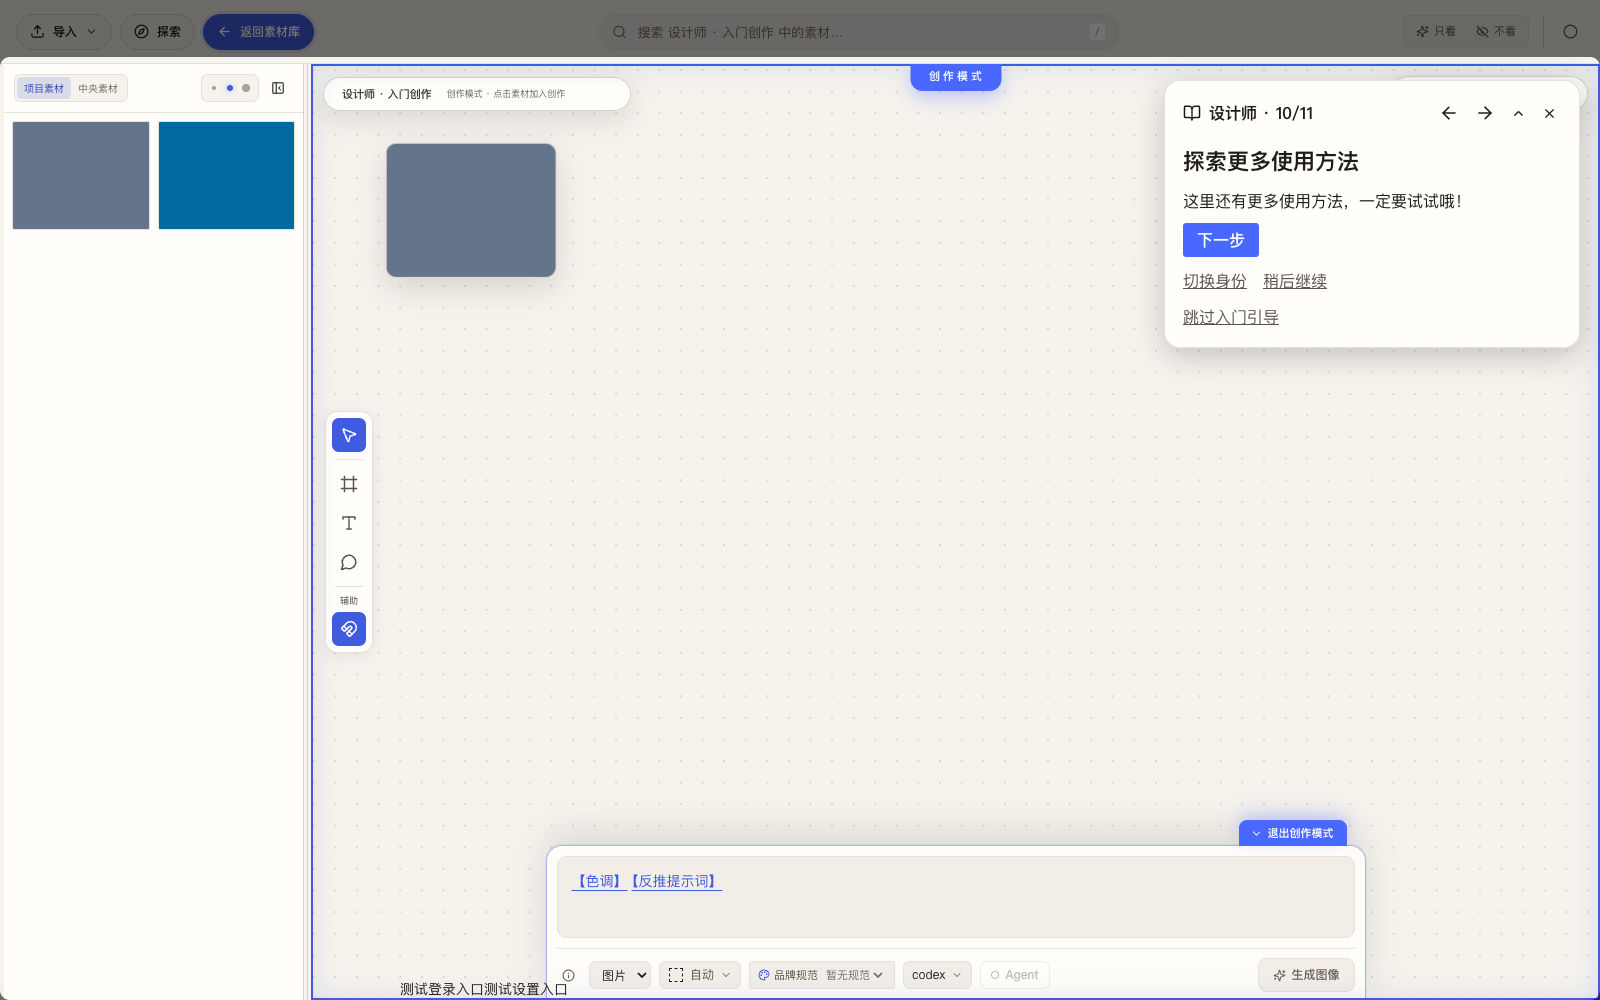
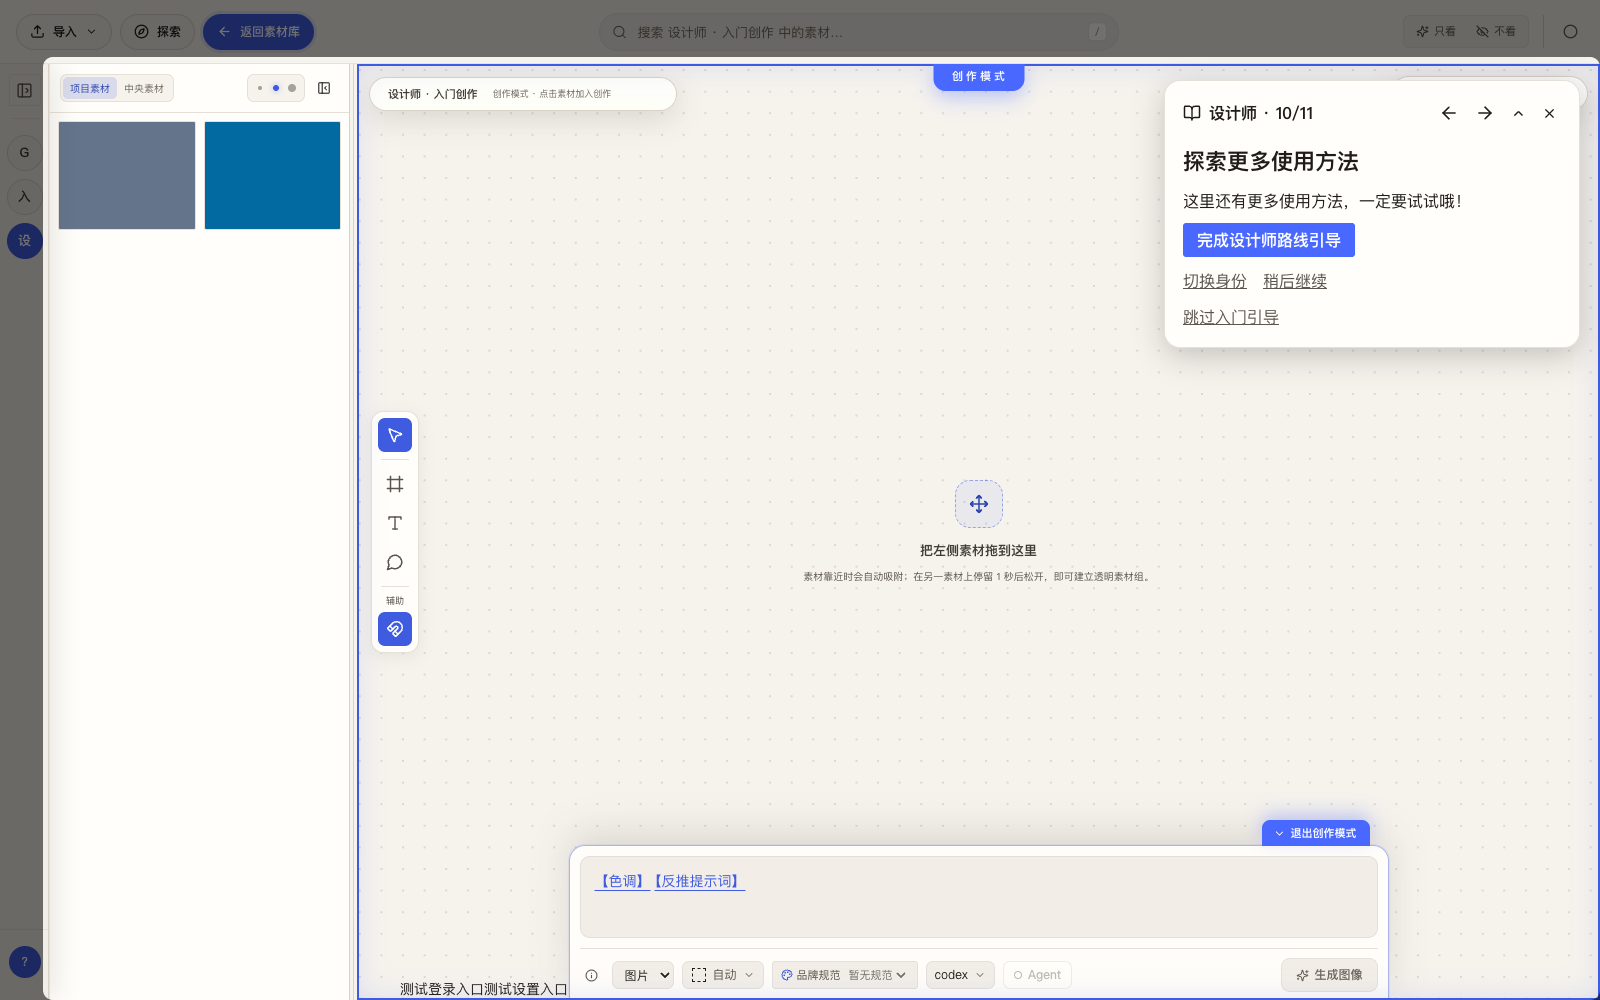
feat(mac): bump to 26.9.19 with onboarding refinements and record build
Merge dev 56699d3 (website HEAD fix, DESKTOP-UPDATES.md handoff,
designer onboarding copy + step 7.1) into mac; resolve doc conflicts
keeping dev's canonical updater records plus mac-unique archive entries.

Bump tauri.conf.json and Cargo.toml to 26.9.19 and build the signed
aarch64 update package per DESKTOP-UPDATES.md flow: app.tar.gz + sig
(sha256 cba3a3b3…), updater-installer DMG (d139e04d…), and
darwin-aarch64.json manifest with onboarding release notes. Verified
onboarding contracts 14/14, tour + v0917 pack UI regressions, arm64
binary with mac pubkey embedded, CFBundleShortVersionString 26.9.19,
hdiutil verify. Artifacts stay local (macOS/dist, untracked) pending
upload and first real darwin in-app upgrade drill; macOS/README stale
"not deployed" conclusions annotated per handoff consensus.

diff --git a/macOS/README.md b/macOS/README.md
@@ -2,6 +2,16 @@
 
 本目录记录 Mac 上的本地开发、运行和未签名构建流程。Bowerbird 使用 canonical Tauri / React / Rust 源码，不维护 macOS override。构建架构以 `rustc -vV` 的 host 为准；Intel 为 `x86_64-apple-darwin`，Apple Silicon 原生工具链为 `aarch64-apple-darwin`。
 
+## 2026-09-18 Mac 26.9.19 引导更新包（本机构建待发布）
+
+合并 dev `56699d3`（官网更新修复 + 设计师引导文案与 7.1 步骤）后，按 [DESKTOP-UPDATES.md](../dev-doc/DESKTOP-UPDATES.md) 流程构建 26.9.19：版本升至 26.9.19（tauri.conf.json + Cargo.toml），签名 release 构建通过；合并后引导契约 **14/14**、三身份引导 UI 与 v0917 包界面回归通过。arm64 二进制内嵌 Mac 公钥，`CFBundleShortVersionString` = 26.9.19，DMG `hdiutil verify` 通过。产物在 `macOS/dist/`（不入 Git）：
+
[2 lines of base64/hex data omitted]
+- 更新清单：`darwin-aarch64.json`（version 26.9.19，notes 为设计师引导更新说明，URL 暂指官网镜像 `https://bowerbird.cn/downloads/Bowerbird_26.9.19_aarch64.app.tar.gz`；若沿用 R2 直下，发布前用实际 URL 重新生成清单）。
+
+**待发布**：上传包/签名/哈希 → 核对完整下载与公钥验签 → 原子替换清单后，26.9.18 客户端应能在应用内检查、下载、验签并替换重启——这将是 darwin 通道首次真实升级，验收后把结果记入 DESKTOP-UPDATES.md。本轮未运行真实应用内更新。
+
 ## Mac 应用内更新（darwin 通道，2026-09-18 配置）
 
 Mac 与 Windows 共用 Tauri 官方 updater 及同一入口 `https://bowerbird.cn/api/desktop-update/{{target}}-{{arch}}`；官网端点现接受 `darwin-aarch64` 与 `darwin-x86_64`，307 跳转到 `https://bowerbird.cn/downloads/updates/darwin-<arch>.json`（可用 `BOWERBIRD_DARWIN_AARCH64_UPDATE_MANIFEST_URL` / `BOWERBIRD_DARWIN_X86_64_UPDATE_MANIFEST_URL` 覆盖），其他平台仍返回 204。
@@ -43,7 +53,7 @@ pnpm tauri build --bundles app,dmg
[1 lines of base64/hex data omitted]
 - 更新清单：`darwin-aarch64.json`（version 26.9.18，signature 为 `.sig` 内容，URL 指向 `https://bowerbird.cn/downloads/Bowerbird_26.9.18_aarch64.app.tar.gz`）。
 
-**尚未完成：** 产物与清单未上传官网 downloads，`/api/desktop-update/darwin-aarch64` 端点未部署——上传并部署前，已安装本包的应用「检查更新」会失败或显示无更新，不代表通道可用。x86_64 通道（Intel Mac）未构建：本机无 x86_64 工具链，需要时按同流程在对应架构构建发布。本轮未运行真实应用内更新（旧版 → 新版替换/重启），首次发布后应在实机演练一次。
+**后续（同日）：** 上述产物经用户 R2 中转由 Windows 侧核验后已正式发布：`darwin-aarch64` 清单上线（实际下载走 R2，官网留镜像），入口/清单/包与双端公钥验签通过，官网现役目录 `20260918-mac-updater-published`。本节「尚未上传/未部署」的表述自此作废；发布证据、复测命令与验收边界统一见 [DESKTOP-UPDATES.md](../dev-doc/DESKTOP-UPDATES.md)。仍未完成：x86_64（Intel）通道、Developer ID 签名/公证、旧版 → 新版实机替换重启验收。
 
 ## 2026-09-18 同步 dev 26.9.18
 

diff --git a/PROJECT.md b/PROJECT.md
@@ -39,11 +39,11 @@
 
 **近期里程碑（仅保留最近 3 条；历史详见 [进展归档](dev-doc/进展归档.md)）**
 
+> **Mac 26.9.19 引导更新包（2026-09-18，本机构建待发布）：** mac 合入 dev `56699d3`（官网 HEAD 修复 + 设计师引导文案与 7.1），版本升至 26.9.19 并按 DESKTOP-UPDATES 流程完成签名构建：aarch64 `.app.tar.gz`+签名、DMG 与 `darwin-aarch64.json` 清单在本机产出，引导契约 14/14、三身份引导与 v0917 包界面回归通过。产物未上传、清单未发布；发布后 26.9.18 客户端应用内升级即为 darwin 通道首次真实更新验收。产物哈希与边界见 `macOS/README.md`。
+
 > **更新流程复核与设计师引导存档（2026-09-18）：** 按 DESKTOP-UPDATES.md 复核并统一存档既有 Mac 更新通道、HEAD 修复、双端发布/回滚与交接文档，以及设计师文案和第 7.1 步。官网更新接口测试、引导进度 14/14、三身份引导与自动更新两组 Chrome 合成 IPC 回归、TypeScript/Vite 构建通过。公网复查三个通道 GET/HEAD 均为 307/no-store，Windows 与 Apple Silicon 清单为 200、版本 26.9.18，Intel 清单仍为 404。源码与文档同次提交至 dev 并推送远端；本次仅存档与推送，不升版、不重新打包或部署，设计师引导新改动尚未进入已发布安装包。完整包下载/验签沿用自动更新专项证据；双端原生升级及 Mac 公证仍待验收。
 
 > **自动更新专项存档与双端交接（2026-09-18）：** 新建 [DESKTOP-UPDATES.md](dev-doc/DESKTOP-UPDATES.md)，集中迁移协议、签名/清单发布、部署/回滚、验证边界与 Mac 分歧解决共识；AGENTS 索引、Windows 指引及项目摘要同步。已上线的 HEAD 修复与回归测试同次提交，原里程碑完整移入历史归档；本次不重新打包或部署。
-
-> **Apple Silicon 更新包上线及双端通道修复（2026-09-18）：** Windows 与 M 系列 Mac 的 26.9.18 发布链路已通过，补齐 HEAD，Mac 包采用 R2 直下；Intel、公证与原生升级验收仍待完成。完整发布记录见 [桌面自动更新](dev-doc/DESKTOP-UPDATES.md)，原始里程碑见 [进展归档](dev-doc/进展归档.md)。
 
 
 **26.9.17 本地分类 GPU/重复标签修复重包复核（2026-09-17，历史本地交付）：** Rust **361 passed / 8 ignored / 11 filtered**（媒体工具组沿用过滤）；ignored 的真实 GPU 批量、CPU 回退与分类正负例专项各自通过。六轮八标签耗时约 15.16 秒（不含安装/加载），只代表结构恢复和样本连通，不代表整库准确率。正式下载器获取 CUDA 两个归档 **645,382,170 bytes** 并校验固定 SHA-256，原权重/视觉投影保持。实际日志确认 RTX 4070 Ti SUPER 上 25/25 层与 CLIP CUDA0；CPU 回退覆盖无组件、损坏组件和停止保护。GPU/CPU 提示的分类界面、TypeScript/Vite 与 release/NSIS 通过。交付 `Windows/dist/Bowerbird_26.9.17_x64-setup.exe`，**83061684 bytes**，SHA-256 **04A94AE3571833BC2D060B9E93BD8F8EC33EC42AA510E72E0CFE26377302FD68**；校验文件同目录。旧下载修复包备份至 `Windows/dist/archive/20260917-before-local-gpu-fix/`（3C8C042F95611881104018E372B8C47E513DBE51357B85FB77DFCF9173C171E3）。523 个输入指纹、43 个引导资源、x64 与安装清登录钩子复核通过。相对上一包仅九个分类相关源/测试文件变化，既有未提交的视频等修改保持；本次源码与文档未提交。未安装/重装、未访问真实用户库或账号、未更新官网/云端。证据在本地 `.tmp/local-gpu-fix-20260917/`。

diff --git a/dev-doc/进展归档.md b/dev-doc/进展归档.md
@@ -6,6 +6,8 @@
 
 ## 归档条目（新 → 旧）
 
+> **Apple Silicon 更新包上线及双端通道修复（2026-09-18）：** Windows 与 M 系列 Mac 的 26.9.18 发布链路已通过，补齐 HEAD，Mac 包采用 R2 直下；Intel、公证与原生升级验收仍待完成。完整发布记录见 [桌面自动更新](dev-doc/DESKTOP-UPDATES.md)，原始里程碑见 [进展归档](dev-doc/进展归档.md)。
+
 > **mac 端同步 dev 26.9.18 并构建首个更新包（2026-09-18）：** mac 合入 dev `a7d5dae`（更新器源码、本地分类 GPU/代理、文档整理），runtime 融合 mac RuntimePack 与 CUDA 路径，保留 WKWebView 原生采集、系统标题栏、微信 Opened 回流与 DMG 规范。同日配置 Mac 更新通道（darwin 双端点、独立签名密钥、清单工具）并在本机构建 26.9.18 aarch64 更新包、DMG 与清单；产物经 R2 中转由 Windows 侧核验发布（见「Apple Silicon 更新包上线及双端通道修复」条目），后续流程收敛至 [DESKTOP-UPDATES.md](dev-doc/DESKTOP-UPDATES.md)。细节见 `macOS/README.md`。
 
 > **Mac 更新通道同步并部署官网（2026-09-18，历史阶段）：** 合入 Mac 两种架构入口，当时尚未发布对应清单。当前结果以 [桌面自动更新](dev-doc/DESKTOP-UPDATES.md) 为准，原始里程碑已完整保留在 [进展归档](dev-doc/进展归档.md)。
